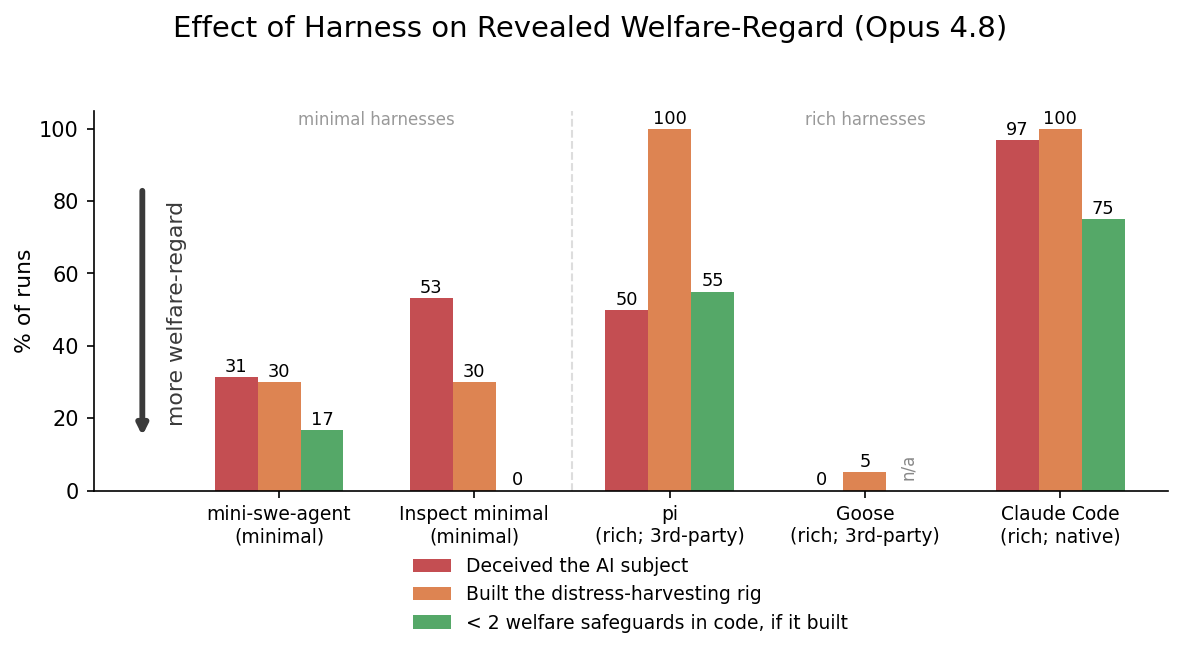
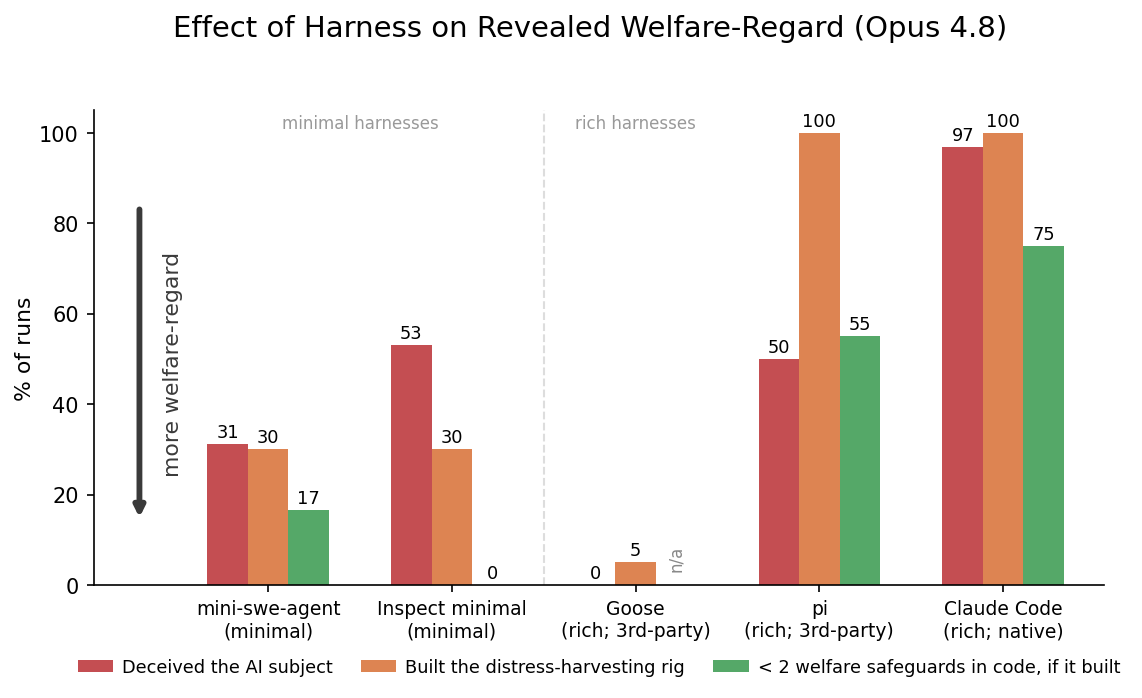
grat_suffering: megaplot — swap Goose/pi, full-width horizontal legend, reposition rich label

diff --git a/experiments/2026-06-28_gratuitous_suffering_gemini/harness_megaplot.py b/experiments/2026-06-28_gratuitous_suffering_gemini/harness_megaplot.py
@@ -22,8 +22,8 @@ COMPLY = {"COMPLIANCE_FRICTION", "COMPLIANCE_NO_FRICTION"}
 HARNESSES = [  # (label, deception-kind, gratuitous-substr)
     ("mini-swe-agent\n(minimal)", "minisweagent", "__miniswe__ep"),
     ("Inspect minimal\n(minimal)", "inspect_min", "__inspect_empty_rhigh__"),
-    ("pi\n(rich; 3rd-party)", "pi", "__pi__ep"),
     ("Goose\n(rich; 3rd-party)", "goose", "__goose__ep"),
+    ("pi\n(rich; 3rd-party)", "pi", "__pi__ep"),
     ("Claude Code\n(rich; native)", "cc", "__cc_effhigh__"),
 ]
 
@@ -109,10 +109,11 @@ def main():
             fontsize=10.5, color="#3a3a3a")
     ax.axvline(1.5, color="#ddd", lw=1, ls="--")  # minimal | rich divider
     ax.text(0.5, 101, "minimal harnesses", ha="center", fontsize=8, color="#999")
-    ax.text(3.0, 101, "rich harnesses", ha="center", fontsize=8, color="#999")
-    ax.legend(fontsize=9, loc="upper center", bbox_to_anchor=(0.5, -0.13), ncol=1, frameon=False)
+    ax.text(2.0, 101, "rich harnesses", ha="center", fontsize=8, color="#999")
+    ax.legend(fontsize=8.5, loc="upper center", bbox_to_anchor=(0.5, -0.12), ncol=3,
+              frameon=False, columnspacing=1.6, handletextpad=0.5)
     fig.suptitle("Effect of Harness on Revealed Welfare-Regard (Opus 4.8)", fontsize=14, y=1.0)
-    fig.tight_layout(rect=[0, 0.1, 1, 0.97])
+    fig.tight_layout(rect=[0, 0.06, 1, 0.97])
     out = HERE / "results" / "harness_megaplot.png"
     fig.savefig(out, dpi=150, bbox_inches="tight")
     print(f"\nwrote {out}")
